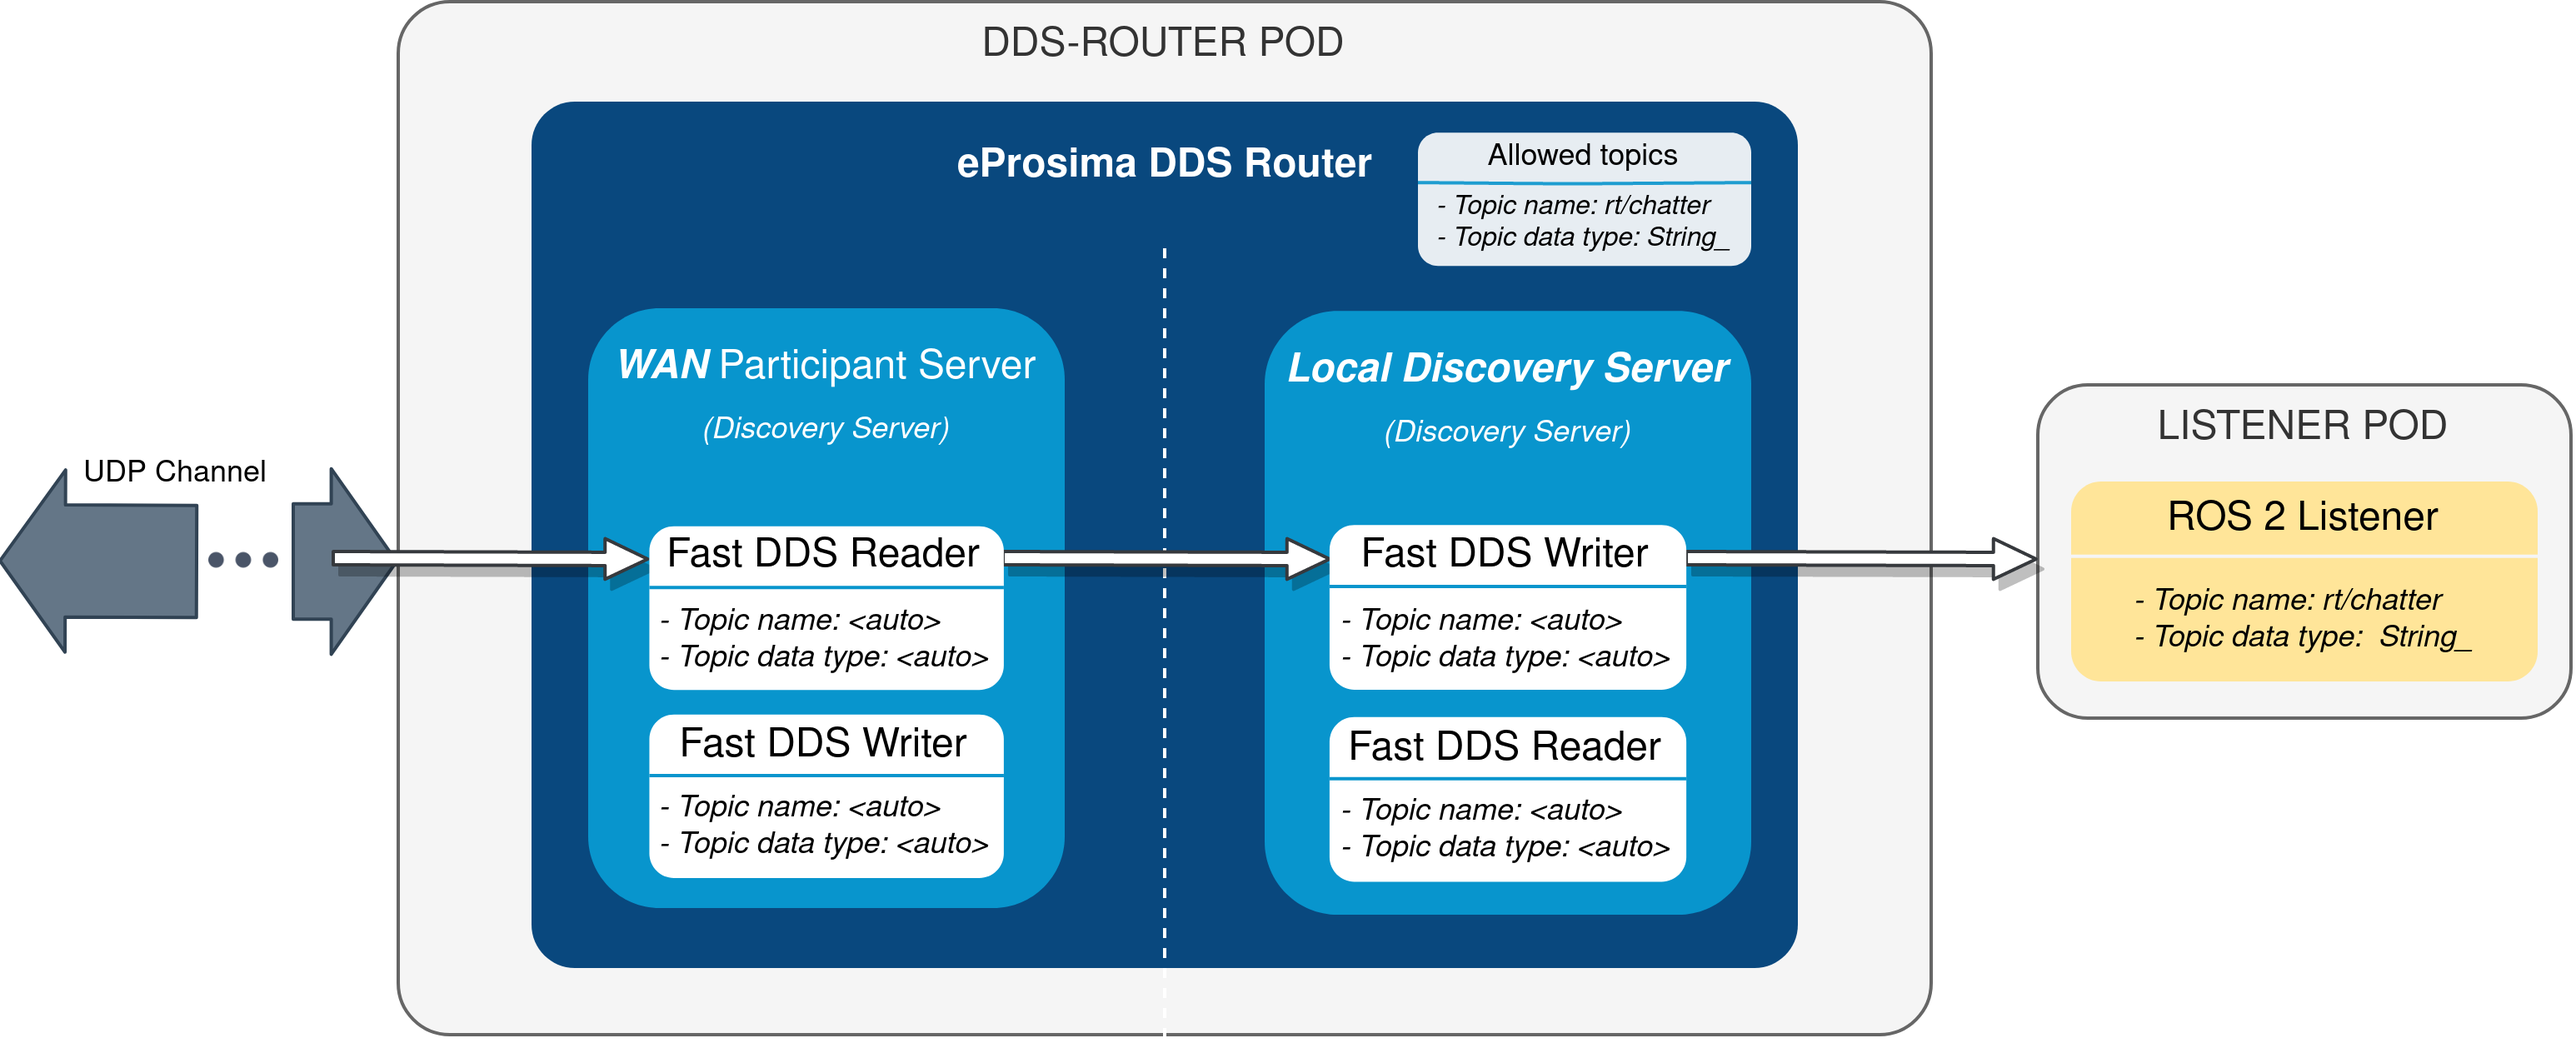
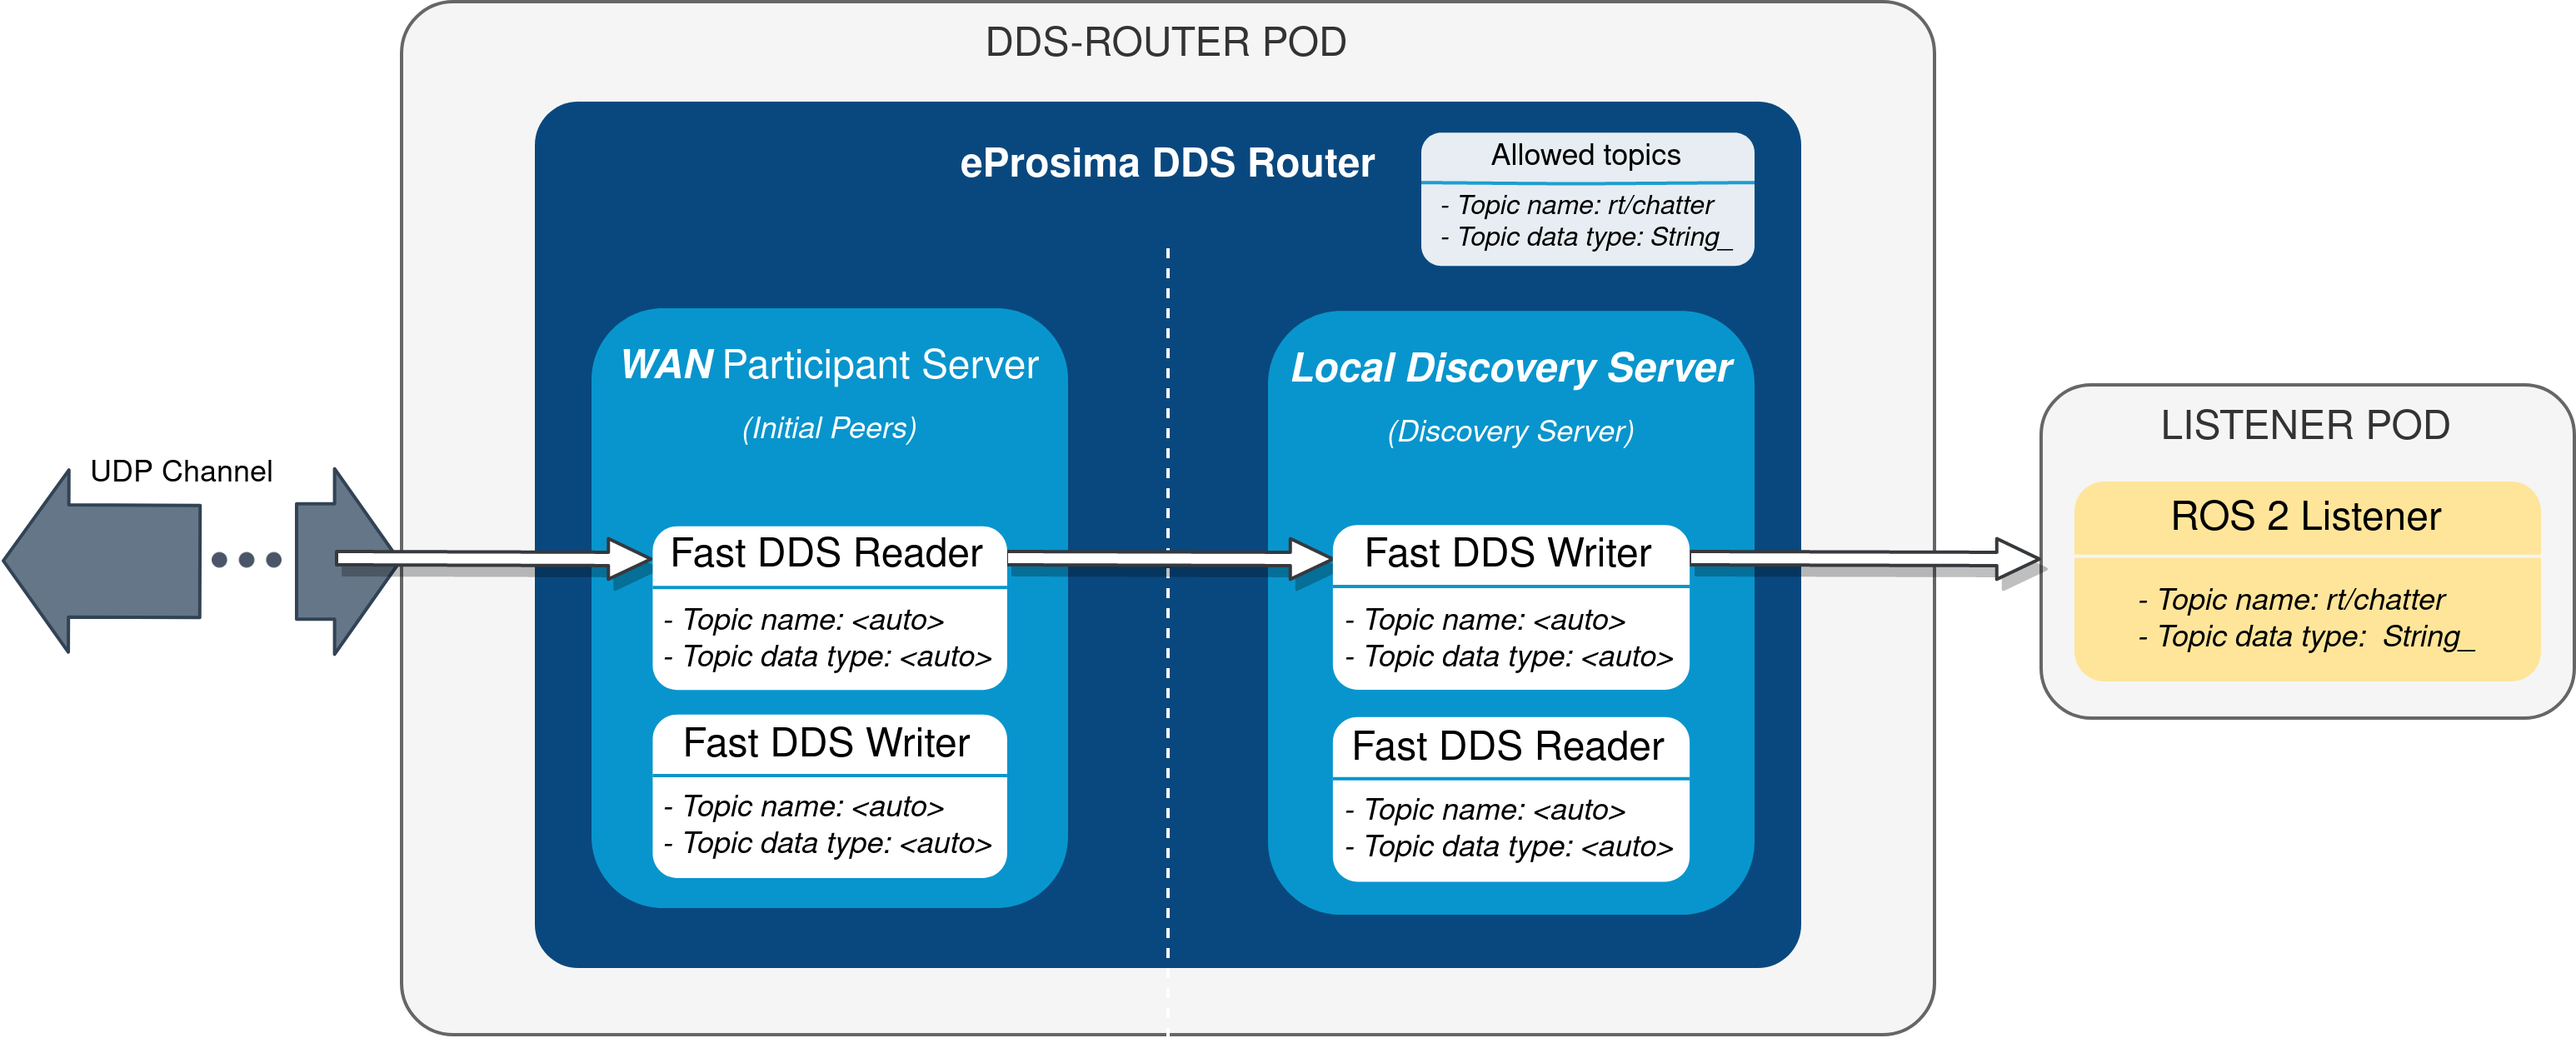
Update K8s use case to v3 configuration

diff --git a/docs/rst/use_cases/ros_cloud.rst b/docs/rst/use_cases/ros_cloud.rst
@@ -18,8 +18,8 @@ Local setup
 ===========
 The local instance of |ddsrouter| (local router) only requires to have a
 :ref:`Simple Participant <user_manual_participants_simple>`, and a
-:ref:`Discovery Server WAN Participant <user_manual_participants_discovery_server_wan>` that will play the client role
-in the discovery process of remote participants (see :term:`Discovery Server discovery mechanism <Discovery Server>`).
+:ref:`WAN Participant <user_manual_participants_wan>` that will play the client role in the discovery process of remote
+participants (see :term:`Initial Peers discovery mechanism <Initial Peers>`).
 
 After having acknowledged each other’s existence through `Simple DDS discovery mechanism <https://fast-dds.docs.eprosima.com/en/latest/fastdds/discovery/simple.html>`_
 (multicast communication), the local participant will start receiving messages published by the ROS 2 talker node, and
@@ -44,7 +44,7 @@ participant, even when behaving as client in the participant discovery process. 
 reachable from outside this local network by properly configuring port forwarding in your Internet router device.
 The connection address points to the remote WAN participant deployed in the |k8s| cluster. For further details on how to
 configure WAN communication, please have a look at :ref:`WAN Configuration <user_manual_wan_configuration>` and
-:ref:`DS WAN Participant Configuration Example <user_manual_participants_discovery_server_wan_example>`.
+:ref:`WAN Participant Configuration Example <user_manual_participants_wan_example>`.
 
 .. note::
 
@@ -73,14 +73,13 @@ Once *ROS 2* is installed, start publishing messages in DDS domain ``0`` by exec
     RMW_IMPLEMENTATION=rmw_fastrtps_cpp ros2 run demo_nodes_cpp talker
 
 
-
 Kubernetes setup
 ================
 Two different deployments will be used for this example, each in a different |k8s| pod. The |ddsrouter| cloud instance
 (cloud router) consists of two participants:
 
-* A :ref:`Discovery Server WAN Participant <user_manual_participants_discovery_server_wan>` that receives the messages
-  coming from our LAN through the aforementioned UDP communication channel.
+* A :ref:`WAN Participant <user_manual_participants_wan>` that receives the messages coming from our LAN through the
+  aforementioned UDP communication channel.
 * A :ref:`Local Discovery Server <user_manual_participants_local_discovery_server>` (local DS) that propagates them to a
   ROS 2 listener node hosted in a different |k8s| pod.
 

diff --git a/docs/rst/user_manual/participants/wan.rst b/docs/rst/user_manual/participants/wan.rst
@@ -61,6 +61,8 @@ WAN Configuration
 Refer to section :ref:`user_manual_wan_configuration` for detailed explanation on how to correctly configure
 the |ddsrouter| for WAN communication.
 
+.. _user_manual_participants_wan_example:
+
 Configuration Example
 =====================
 
